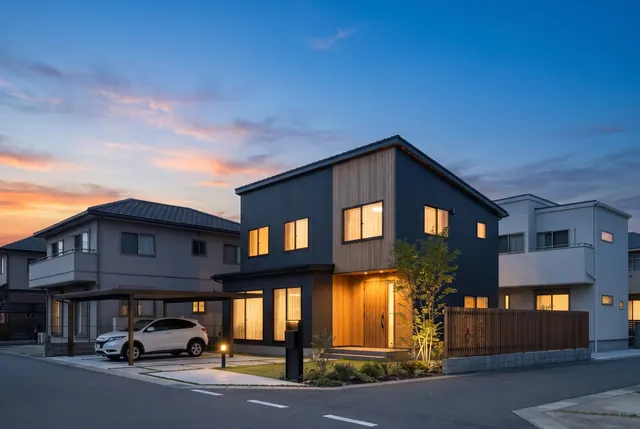
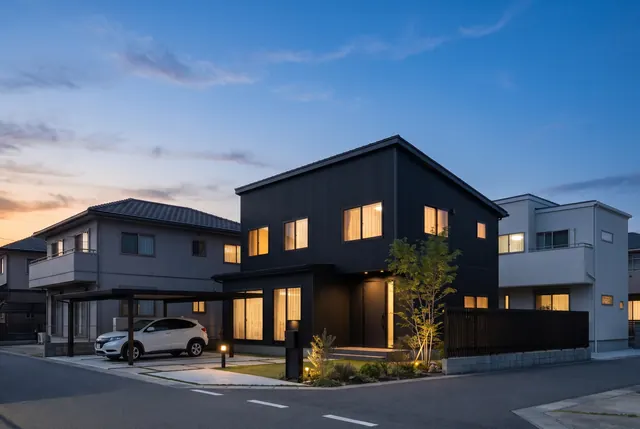
作例2の住宅を黒の仕上げ（v2）に差し替え
Claude-Session: https://claude.ai/code/session_01HQof481ygSGTKzHtgwCEzb

diff --git a/works/okayama-house/index.html b/works/okayama-house/index.html
@@ -4,13 +4,13 @@
 <meta charset="utf-8">
 <meta name="viewport" content="width=device-width, initial-scale=1, viewport-fit=cover">
 <title>岡山市北区の住宅地 木造2階建ての住まい（作例） ｜ ON DESIGN WORKS</title>
-<meta name="description" content="岡山市北区の住宅地に想定した岡山市北区の住宅地 木造2階建ての住まい（架空の計画）の外観パース・周辺建物つき3Dの見本。岡山市北区の住宅地の角地に計画した、木造2階建て・延床約35坪の注文住宅の作例です（架空の計画）。チャコールのガルバリウム鋼板と杉板を組み合わせた片流れ屋根の外観に、カーポートやア">
+<meta name="description" content="岡山市北区の住宅地に想定した岡山市北区の住宅地 木造2階建ての住まい（架空の計画）の外観パース・周辺建物つき3Dの見本。岡山市北区の住宅地の角地に計画した、木造2階建て・延床約35坪の注文住宅の作例です（架空の計画）。マットな黒のガルバリウム鋼板で外壁から玄関ドア、カーポートや目隠しまでをまとめた片">
 <link rel="canonical" href="https://on-design-works.com/works/okayama-house/">
 <meta property="og:type" content="article">
 <meta property="og:site_name" content="ON DESIGN WORKS">
 <meta property="og:locale" content="ja_JP">
 <meta property="og:title" content="岡山市北区の住宅地 木造2階建ての住まい（作例） ｜ ON DESIGN WORKS">
-<meta property="og:description" content="岡山市北区の住宅地に想定した岡山市北区の住宅地 木造2階建ての住まい（架空の計画）の外観パース・周辺建物つき3Dの見本。岡山市北区の住宅地の角地に計画した、木造2階建て・延床約35坪の注文住宅の作例です（架空の計画）。チャコールのガルバリウム鋼板と杉板を組み合わせた片流れ屋根の外観に、カーポートやア">
+<meta property="og:description" content="岡山市北区の住宅地に想定した岡山市北区の住宅地 木造2階建ての住まい（架空の計画）の外観パース・周辺建物つき3Dの見本。岡山市北区の住宅地の角地に計画した、木造2階建て・延床約35坪の注文住宅の作例です（架空の計画）。マットな黒のガルバリウム鋼板で外壁から玄関ドア、カーポートや目隠しまでをまとめた片">
 <meta property="og:url" content="https://on-design-works.com/works/okayama-house/">
 <meta property="og:image" content="https://on-design-works.com/assets/og.jpg">
 <meta property="og:image:width" content="1200">
@@ -25,7 +25,7 @@
 <link rel="preconnect" href="https://fonts.gstatic.com" crossorigin>
 <link rel="stylesheet" href="https://fonts.googleapis.com/css2?family=Noto+Serif+JP:wght@300;400;500&family=Noto+Sans+JP:wght@300;400;500&family=Italiana&display=swap">
 <link rel="stylesheet" href="/assets/style.css?v=2026-11-17c">
-<script type="application/ld+json">{"@context": "https://schema.org", "@graph": [{"@type": "ProfessionalService", "@id": "https://on-design-works.com/#org", "name": "ON DESIGN WORKS", "alternateName": "オンデザインワークス", "url": "https://on-design-works.com/", "email": "info@on-design-works.com", "image": "https://on-design-works.com/assets/og.jpg", "logo": "https://on-design-works.com/assets/icon-512.png", "description": "岡山の一級建築士による建築パース・周辺建物つき3Dモデルの制作と、建築会社のホームページ制作・運用。", "address": {"@type": "PostalAddress", "addressRegion": "岡山県", "addressLocality": "岡山市", "addressCountry": "JP"}, "areaServed": [{"@type": "City", "name": "岡山市"}, {"@type": "City", "name": "倉敷市"}, {"@type": "AdministrativeArea", "name": "岡山県"}], "knowsAbout": ["建築パース", "外観パース", "3Dモデル", "PLATEAU", "ホームページ制作"], "priceRange": "¥10,000〜", "contactPoint": {"@type": "ContactPoint", "contactType": "customer service", "email": "info@on-design-works.com", "availableLanguage": "ja"}}, {"@type": "WebSite", "@id": "https://on-design-works.com/#site", "url": "https://on-design-works.com/", "name": "ON DESIGN WORKS", "inLanguage": "ja", "publisher": {"@id": "https://on-design-works.com/#org"}}, {"@type": "WebPage", "@id": "https://on-design-works.com/works/okayama-house/#page", "url": "https://on-design-works.com/works/okayama-house/", "name": "岡山市北区の住宅地 木造2階建ての住まい（作例） ｜ ON DESIGN WORKS", "description": "岡山市北区の住宅地に想定した岡山市北区の住宅地 木造2階建ての住まい（架空の計画）の外観パース・周辺建物つき3Dの見本。岡山市北区の住宅地の角地に計画した、木造2階建て・延床約35坪の注文住宅の作例です（架空の計画）。チャコールのガルバリウム鋼板と杉板を組み合わせた片流れ屋根の外観に、カーポートやア", "isPartOf": {"@id": "https://on-design-works.com/#site"}, "inLanguage": "ja", "primaryImageOfPage": {"@type": "ImageObject", "url": "https://on-design-works.com/img/dusk.jpg"}}, {"@type": "BreadcrumbList", "itemListElement": [{"@type": "ListItem", "position": 1, "name": "ホーム", "item": "https://on-design-works.com/"}, {"@type": "ListItem", "position": 2, "name": "見本", "item": "https://on-design-works.com/works/"}, {"@type": "ListItem", "position": 3, "name": "岡山市北区の住宅地 木造2階建ての住まい", "item": "https://on-design-works.com/works/okayama-house/"}]}, {"@type": "CreativeWork", "name": "岡山市北区の住宅地 木造2階建ての住まい（架空の計画・作例）", "url": "https://on-design-works.com/works/okayama-house/", "creator": {"@id": "https://on-design-works.com/#org"}, "image": ["https://on-design-works.com/img/works/okayama-house/01.jpg", "https://on-design-works.com/img/works/okayama-house/02.jpg", "https://on-design-works.com/img/works/okayama-house/03.jpg"], "description": "岡山市北区の住宅地の角地に計画した、木造2階建て・延床約35坪の注文住宅の作例です（架空の計画）。チャコールのガルバリウム鋼板と杉板を組み合わせた片流れ屋根の外観に、カーポートやアプローチ、植栽まで含めた外構を作り込み、通りから人の目線で見た竣工写真のようなパースに仕上げました。周りの家並みは国土交通省の3D都市モデル PLATEAU の実測の高さで再現しておりますので、計画が街の中でどのように見えるかを、3Dでもご確認いただけます。", "locationCreated": {"@type": "Place", "name": "岡山市北区の住宅地"}}]}</script>
+<script type="application/ld+json">{"@context": "https://schema.org", "@graph": [{"@type": "ProfessionalService", "@id": "https://on-design-works.com/#org", "name": "ON DESIGN WORKS", "alternateName": "オンデザインワークス", "url": "https://on-design-works.com/", "email": "info@on-design-works.com", "image": "https://on-design-works.com/assets/og.jpg", "logo": "https://on-design-works.com/assets/icon-512.png", "description": "岡山の一級建築士による建築パース・周辺建物つき3Dモデルの制作と、建築会社のホームページ制作・運用。", "address": {"@type": "PostalAddress", "addressRegion": "岡山県", "addressLocality": "岡山市", "addressCountry": "JP"}, "areaServed": [{"@type": "City", "name": "岡山市"}, {"@type": "City", "name": "倉敷市"}, {"@type": "AdministrativeArea", "name": "岡山県"}], "knowsAbout": ["建築パース", "外観パース", "3Dモデル", "PLATEAU", "ホームページ制作"], "priceRange": "¥10,000〜", "contactPoint": {"@type": "ContactPoint", "contactType": "customer service", "email": "info@on-design-works.com", "availableLanguage": "ja"}}, {"@type": "WebSite", "@id": "https://on-design-works.com/#site", "url": "https://on-design-works.com/", "name": "ON DESIGN WORKS", "inLanguage": "ja", "publisher": {"@id": "https://on-design-works.com/#org"}}, {"@type": "WebPage", "@id": "https://on-design-works.com/works/okayama-house/#page", "url": "https://on-design-works.com/works/okayama-house/", "name": "岡山市北区の住宅地 木造2階建ての住まい（作例） ｜ ON DESIGN WORKS", "description": "岡山市北区の住宅地に想定した岡山市北区の住宅地 木造2階建ての住まい（架空の計画）の外観パース・周辺建物つき3Dの見本。岡山市北区の住宅地の角地に計画した、木造2階建て・延床約35坪の注文住宅の作例です（架空の計画）。マットな黒のガルバリウム鋼板で外壁から玄関ドア、カーポートや目隠しまでをまとめた片", "isPartOf": {"@id": "https://on-design-works.com/#site"}, "inLanguage": "ja", "primaryImageOfPage": {"@type": "ImageObject", "url": "https://on-design-works.com/img/dusk.jpg"}}, {"@type": "BreadcrumbList", "itemListElement": [{"@type": "ListItem", "position": 1, "name": "ホーム", "item": "https://on-design-works.com/"}, {"@type": "ListItem", "position": 2, "name": "見本", "item": "https://on-design-works.com/works/"}, {"@type": "ListItem", "position": 3, "name": "岡山市北区の住宅地 木造2階建ての住まい", "item": "https://on-design-works.com/works/okayama-house/"}]}, {"@type": "CreativeWork", "name": "岡山市北区の住宅地 木造2階建ての住まい（架空の計画・作例）", "url": "https://on-design-works.com/works/okayama-house/", "creator": {"@id": "https://on-design-works.com/#org"}, "image": ["https://on-design-works.com/img/works/okayama-house/01.jpg", "https://on-design-works.com/img/works/okayama-house/02.jpg", "https://on-design-works.com/img/works/okayama-house/03.jpg"], "description": "岡山市北区の住宅地の角地に計画した、木造2階建て・延床約35坪の注文住宅の作例です（架空の計画）。マットな黒のガルバリウム鋼板で外壁から玄関ドア、カーポートや目隠しまでをまとめた片流れ屋根の外観に、アプローチや植栽まで含めた外構を作り込み、通りから人の目線で見た竣工写真のようなパースに仕上げました。周りの家並みは国土交通省の3D都市モデル PLATEAU の実測の高さで再現しておりますので、計画が街の中でどのように見えるかを、3Dでもご確認いただけます。", "locationCreated": {"@type": "Place", "name": "岡山市北区の住宅地"}}]}</script>
 </head>
 <body class="sub">
 <a class="skip" href="#main">本文へ移動</a>
@@ -48,9 +48,9 @@
 <div class="rv"><p class="k">Work 02 ／ 注文住宅（専用住宅 4LDK）</p>
 <h2 style="font-size:clamp(22px,2.6vw,34px);margin-top:16px">岡山市北区の住宅地 木造2階建ての住まい</h2>
 <p class="small" style="margin-top:8px">岡山市北区の住宅地</p>
-<p class="mute" style="margin-top:16px">岡山市北区の住宅地の角地に計画した、木造2階建て・延床約35坪の注文住宅の作例です（架空の計画）。チャコールのガルバリウム鋼板と杉板を組み合わせた片流れ屋根の外観に、カーポートやアプローチ、植栽まで含めた外構を作り込み、通りから人の目線で見た竣工写真のようなパースに仕上げました。周りの家並みは国土交通省の3D都市モデル PLATEAU の実測の高さで再現しておりますので、計画が街の中でどのように見えるかを、3Dでもご確認いただけます。</p>
+<p class="mute" style="margin-top:16px">岡山市北区の住宅地の角地に計画した、木造2階建て・延床約35坪の注文住宅の作例です（架空の計画）。マットな黒のガルバリウム鋼板で外壁から玄関ドア、カーポートや目隠しまでをまとめた片流れ屋根の外観に、アプローチや植栽まで含めた外構を作り込み、通りから人の目線で見た竣工写真のようなパースに仕上げました。周りの家並みは国土交通省の3D都市モデル PLATEAU の実測の高さで再現しておりますので、計画が街の中でどのように見えるかを、3Dでもご確認いただけます。</p>
 <div class="specs"><div><b>木造 地上2階</b><span>構造・規模</span></div><div><b>7.3 m</b><span>最高高さ</span></div><div><b>約116 ㎡（約35坪）</b><span>延べ面積</span></div></div><div class="actions"><a class="btn fill" href="/3d/okayama-house.html" target="_blank" rel="noopener">3Dモデルを開く ↗</a></div></div>
-</div></div></section><section class="s alt"><div class="wrap"><div class="ttl rv"><p class="en" aria-hidden="true">Gallery</p><div class="r"><h2>制作物</h2></div></div><div class="body rv"><div class="gal"><figure><a href="/img/works/okayama-house/01.jpg" target="_blank" rel="noopener"><picture><source type="image/webp" srcset="/img/works/okayama-house/01-640.webp 640w, /img/works/okayama-house/01.webp 1600w" sizes="(max-width: 640px) 100vw, 400px"><img src="/img/works/okayama-house/01-640.jpg" srcset="/img/works/okayama-house/01-640.jpg 640w, /img/works/okayama-house/01.jpg 1600w" sizes="(max-width: 640px) 100vw, 400px" alt="岡山市北区の住宅地 木造2階建ての住まい（架空の計画）・外観パース（昼）：南東の角から人の目線で" width="1600" height="1073" loading="lazy" decoding="async"></picture></a><figcaption><span>DAY</span><span>昼景</span></figcaption></figure><figure><a href="/img/works/okayama-house/02.jpg" target="_blank" rel="noopener"><picture><source type="image/webp" srcset="/img/works/okayama-house/02-640.webp 640w, /img/works/okayama-house/02.webp 1600w" sizes="(max-width: 640px) 100vw, 400px"><img src="/img/works/okayama-house/02-640.jpg" srcset="/img/works/okayama-house/02-640.jpg 640w, /img/works/okayama-house/02.jpg 1600w" sizes="(max-width: 640px) 100vw, 400px" alt="岡山市北区の住宅地 木造2階建ての住まい（架空の計画）・外観パース（夕景）：室内と玄関ポーチの灯り" width="1600" height="1073" loading="lazy" decoding="async"></picture></a><figcaption><span>DUSK</span><span>夕景</span></figcaption></figure><figure><a href="/img/works/okayama-house/03.jpg" target="_blank" rel="noopener"><picture><source type="image/webp" srcset="/img/works/okayama-house/03-640.webp 640w, /img/works/okayama-house/03.webp 1600w" sizes="(max-width: 640px) 100vw, 400px"><img src="/img/works/okayama-house/03-640.jpg" srcset="/img/works/okayama-house/03-640.jpg 640w, /img/works/okayama-house/03.jpg 1600w" sizes="(max-width: 640px) 100vw, 400px" alt="岡山市北区の住宅地 木造2階建ての住まい（架空の計画）・周りの家並みを白いボリュームで示した版（PLATEAU の実測の高さ）" width="1600" height="1073" loading="lazy" decoding="async"></picture></a><figcaption><span>CONTEXT</span><span>周辺を白く</span></figcaption></figure></div><dl class="dl"><dt>場所</dt><dd>岡山市北区の住宅地</dd><dt>用途</dt><dd>注文住宅（専用住宅 4LDK）</dd><dt>構造・規模</dt><dd>木造 地上2階</dd><dt>高さ</dt><dd>7.3 m</dd><dt>規模</dt><dd>延べ面積 約116 ㎡（約35坪）</dd><dt>制作物</dt><dd>周辺つき3Dモデル（Web）、外観パース 3枚</dd></dl><p class="small">見本のために想定した架空の計画です。実在の建物・会社・計画とは関係ございません。</p></div></div></section><section class="s "><div class="wrap"><div class="ttl rv"><p class="en" aria-hidden="true">More</p><div class="r"><h2>ほかの見本</h2></div></div><div class="body rv"><div class="wgrid"><a class="wcard" href="/works/okayama-station-east/"><div class="wimg"><picture><source type="image/webp" srcset="/img/works/okayama-station-east/01-640.webp"><img src="/img/works/okayama-station-east/01-640.jpg" alt="岡山駅東口 角地の賃貸マンション（架空の計画）" width="640" height="795" loading="lazy" decoding="async"></picture></div><div class="wtx"><span class="k">Work 01 ／ 共同住宅＋店舗</span><h3>岡山駅東口 角地の賃貸マンション</h3><p>岡山市北区・岡山駅東口から徒歩約5分の角地</p></div></a><a class="wcard" href="/works/kurashiki-bikan-inn/"><div class="wimg"><picture><source type="image/webp" srcset="/img/works/kurashiki-bikan-inn/01-640.webp"><img src="/img/works/kurashiki-bikan-inn/01-640.jpg" alt="倉敷・美観地区の近く 和モダンの小さな宿＋カフェ（架空の計画）" width="640" height="478" loading="lazy" decoding="async"></picture></div><div class="wtx"><span class="k">Work 03 ／ ホテル（客室10室）＋1階カフェ</span><h3>倉敷・美観地区の近く 和モダンの小さな宿＋カフェ</h3><p>倉敷市・美観地区の近く</p></div></a><a class="wcard" href="/works/okayama-clinic-mall/"><div class="wimg"><picture><source type="image/webp" srcset="/img/works/okayama-clinic-mall/01-640.webp"><img src="/img/works/okayama-clinic-mall/01-640.jpg" alt="郊外ロードサイドのクリニックモール（架空の計画）" width="640" height="429" loading="lazy" decoding="async"></picture></div><div class="wtx"><span class="k">Work 04 ／ クリニックモール（診療所5区画＋調剤薬局1区画）</span><h3>郊外ロードサイドのクリニックモール</h3><p>岡山市南区の幹線道路沿い</p></div></a></div></div></div></section><section class="s contact"><div class="wrap rv">
+</div></div></section><section class="s alt"><div class="wrap"><div class="ttl rv"><p class="en" aria-hidden="true">Gallery</p><div class="r"><h2>制作物</h2></div></div><div class="body rv"><div class="gal"><figure><a href="/img/works/okayama-house/01.jpg" target="_blank" rel="noopener"><picture><source type="image/webp" srcset="/img/works/okayama-house/01-640.webp 640w, /img/works/okayama-house/01.webp 1600w" sizes="(max-width: 640px) 100vw, 400px"><img src="/img/works/okayama-house/01-640.jpg" srcset="/img/works/okayama-house/01-640.jpg 640w, /img/works/okayama-house/01.jpg 1600w" sizes="(max-width: 640px) 100vw, 400px" alt="岡山市北区の住宅地 木造2階建ての住まい（架空の計画）・外観パース（昼）：南東の角から人の目線で" width="1600" height="1073" loading="lazy" decoding="async"></picture></a><figcaption><span>DAY</span><span>昼景</span></figcaption></figure><figure><a href="/img/works/okayama-house/02.jpg" target="_blank" rel="noopener"><picture><source type="image/webp" srcset="/img/works/okayama-house/02-640.webp 640w, /img/works/okayama-house/02.webp 1600w" sizes="(max-width: 640px) 100vw, 400px"><img src="/img/works/okayama-house/02-640.jpg" srcset="/img/works/okayama-house/02-640.jpg 640w, /img/works/okayama-house/02.jpg 1600w" sizes="(max-width: 640px) 100vw, 400px" alt="岡山市北区の住宅地 木造2階建ての住まい（架空の計画）・外観パース（夕景）：黒い外壁に映える室内と玄関ポーチの灯り" width="1600" height="1073" loading="lazy" decoding="async"></picture></a><figcaption><span>DUSK</span><span>夕景</span></figcaption></figure><figure><a href="/img/works/okayama-house/03.jpg" target="_blank" rel="noopener"><picture><source type="image/webp" srcset="/img/works/okayama-house/03-640.webp 640w, /img/works/okayama-house/03.webp 1600w" sizes="(max-width: 640px) 100vw, 400px"><img src="/img/works/okayama-house/03-640.jpg" srcset="/img/works/okayama-house/03-640.jpg 640w, /img/works/okayama-house/03.jpg 1600w" sizes="(max-width: 640px) 100vw, 400px" alt="岡山市北区の住宅地 木造2階建ての住まい（架空の計画）・周りの家並みを白いボリュームで示した版（PLATEAU の実測の高さ）" width="1600" height="1073" loading="lazy" decoding="async"></picture></a><figcaption><span>CONTEXT</span><span>周辺を白く</span></figcaption></figure></div><dl class="dl"><dt>場所</dt><dd>岡山市北区の住宅地</dd><dt>用途</dt><dd>注文住宅（専用住宅 4LDK）</dd><dt>構造・規模</dt><dd>木造 地上2階</dd><dt>高さ</dt><dd>7.3 m</dd><dt>規模</dt><dd>延べ面積 約116 ㎡（約35坪）</dd><dt>制作物</dt><dd>周辺つき3Dモデル（Web）、外観パース 3枚</dd></dl><p class="small">見本のために想定した架空の計画です。実在の建物・会社・計画とは関係ございません。</p></div></div></section><section class="s "><div class="wrap"><div class="ttl rv"><p class="en" aria-hidden="true">More</p><div class="r"><h2>ほかの見本</h2></div></div><div class="body rv"><div class="wgrid"><a class="wcard" href="/works/okayama-station-east/"><div class="wimg"><picture><source type="image/webp" srcset="/img/works/okayama-station-east/01-640.webp"><img src="/img/works/okayama-station-east/01-640.jpg" alt="岡山駅東口 角地の賃貸マンション（架空の計画）" width="640" height="795" loading="lazy" decoding="async"></picture></div><div class="wtx"><span class="k">Work 01 ／ 共同住宅＋店舗</span><h3>岡山駅東口 角地の賃貸マンション</h3><p>岡山市北区・岡山駅東口から徒歩約5分の角地</p></div></a><a class="wcard" href="/works/kurashiki-bikan-inn/"><div class="wimg"><picture><source type="image/webp" srcset="/img/works/kurashiki-bikan-inn/01-640.webp"><img src="/img/works/kurashiki-bikan-inn/01-640.jpg" alt="倉敷・美観地区の近く 和モダンの小さな宿＋カフェ（架空の計画）" width="640" height="478" loading="lazy" decoding="async"></picture></div><div class="wtx"><span class="k">Work 03 ／ ホテル（客室10室）＋1階カフェ</span><h3>倉敷・美観地区の近く 和モダンの小さな宿＋カフェ</h3><p>倉敷市・美観地区の近く</p></div></a><a class="wcard" href="/works/okayama-clinic-mall/"><div class="wimg"><picture><source type="image/webp" srcset="/img/works/okayama-clinic-mall/01-640.webp"><img src="/img/works/okayama-clinic-mall/01-640.jpg" alt="郊外ロードサイドのクリニックモール（架空の計画）" width="640" height="429" loading="lazy" decoding="async"></picture></div><div class="wtx"><span class="k">Work 04 ／ クリニックモール（診療所5区画＋調剤薬局1区画）</span><h3>郊外ロードサイドのクリニックモール</h3><p>岡山市南区の幹線道路沿い</p></div></a></div></div></div></section><section class="s contact"><div class="wrap rv">
 <p class="k">Contact</p>
 <h2>まずは図面一枚から、<br>ご相談ください。</h2>
 <a class="mail" href="mailto:info@on-design-works.com">info@on-design-works.com</a>

diff --git a/3d/okayama-house.html b/3d/okayama-house.html
@@ -232,7 +232,7 @@ const BRAND=['作例（架空の計画）／周辺の建物＝PLATEAU 岡山市 
 const TITLE=[['名称','岡山市北区の住宅地 木造2階建ての住まい（架空の計画・作例）',true],['場所','岡山市北区の住宅地（南と東が道路の角地）',true],
   ['敷地面積','約 199 ㎡（約 60 坪）'],['建築面積','約 66 ㎡（カーポート除く）'],['延べ面積','約 116 ㎡（約 35 坪）'],
   ['構造・規模','木造 2F'],['用途','専用住宅 4LDK'],['最高高さ','約 7.3 m（片流れ屋根）'],['階高','1F 2.9 m（1FL＝GL+0.5）'],
-  ['外装','ガルバリウム鋼板（チャコール）＋杉板張り'],['外構','2台用カーポート・アプローチ・植栽・木の目隠し']];
+  ['外装','黒のガルバリウム鋼板（縦はぜ・マット）で統一'],['外構','2台用カーポート（黒）・アプローチ・植栽・黒のアルミ縦格子']];
 const CAMS=[
   ['.1','南東の角から（人の目線）',[23000,-5800,1500],[6500,9000,3500],50],
   ['.2','南の道路から（正面）',[5500,-5800,1500],[6000,9000,3500],62],
@@ -241,20 +241,20 @@ const CAMS=[
   ['.5','真上（配置）',[7000,7000,90000],[7000,7100,0],35]
 ];
 const LAYERS=[
-  {id:'wall',label:'外壁（ガルバリウム鋼板・チャコール）',sw:'#3d4044'},
-  {id:'wood',label:'外壁（杉板の縦張り）・軒天',sw:'#b5835a'},
+  {id:'wall',label:'外壁（黒のガルバリウム鋼板・縦はぜ）',sw:'#232426'},
+  {id:'wood',label:'玄関側の縦の一列・軒天（黒のガルバリウム鋼板）',sw:'#1c1d1f'},
   {id:'glass',label:'窓・玄関ドア',sw:'#5d7684'},
   {id:'roof',label:'屋根（片流れ）・下屋',sw:'#2e3033'},
   {id:'base',label:'基礎・玄関ポーチ',sw:'#a3a19b'},
-  {id:'ext',label:'外構（カーポート・アプローチ・目隠し）',sw:'#cfc6b5'},
+  {id:'ext',label:'外構（黒のカーポート・アプローチ・黒のアルミ縦格子）',sw:'#cfc6b5'},
   {id:'car',label:'車（大きさの目安）',sw:'#e8e8e6'},
   {id:'site',label:'敷地・道路',sw:'#b9ad98'},
   {id:'plant',label:'植栽',sw:'#6b8f52'}
 ];
-const MAT={galva:{c:0x3d4044},galva2:{c:0x34373a},roof:{c:0x2b2d30},fascia:{c:0x26282a},wood:{c:0xb5835a},soffit:{c:0xc39a6c},
-  glass:{c:0x5d7684,o:0.86},sash:{c:0x1f2022},door:{c:0x7e5434},base:{c:0xa3a19b},tile:{c:0x8f8d88},
-  conc:{c:0xc4c1ba},pave:{c:0xd2c8b6},soil:{c:0xb9ad98},lawn:{c:0x7fa05a},block:{c:0xb0aca4},fence:{c:0x9a6b45},
-  cproof:{c:0x5a5d61},steel:{c:0x4d4946},post:{c:0x3a3c3f},light:{c:0xfff1d6,e:0x6a5a3a},
+const MAT={galva:{c:0x2a2b2d},galva2:{c:0x242527},roof:{c:0x1f2022},fascia:{c:0x1a1b1c},wood:{c:0x25262a},soffit:{c:0x1e1f21},
+  glass:{c:0x5d7684,o:0.86},sash:{c:0x1f2022},door:{c:0x232427},base:{c:0xa3a19b},tile:{c:0x8f8d88},
+  conc:{c:0xc4c1ba},pave:{c:0xd2c8b6},soil:{c:0xb9ad98},lawn:{c:0x7fa05a},block:{c:0xb0aca4},fence:{c:0x1d1e20},
+  cproof:{c:0x3a3c3f},steel:{c:0x1f2022},post:{c:0x26272a},light:{c:0xfff1d6,e:0x6a5a3a},
   car:{c:0xe6e6e3},carglass:{c:0x2f353b},tire:{c:0x222222},
   asph:{c:0x64676b},line:{c:0xf2f2f0},gutter:{c:0xb3b0aa},green:{c:0x7c9e5c}};
 const FOCUS=new THREE.Vector3(7,3,-8);
@@ -262,7 +262,7 @@ const SHADOW_R=90;
 const CTX_SOURCE_SHORT='PLATEAU';
 const CTX_NOTE='国土交通省 3D都市モデル <b>PLATEAU 岡山市 2025年度版</b>（3次メッシュ 52330712・52330713）の建物外形と<b>実測高さ</b>（半径260m・572棟）。カーソルを当てると高さ・階数・用途が出ます。敷地の上の既存の住宅は、架空の計画のため3Dから外しています。道路の縁は国土地理院の基盤地図。';
 const BADGE='周りの家並み <b>6〜9m（2階建て中心）</b>（PLATEAU 実測）／計画 約7.3m';
-const FINISH='<ul class="hint"><li>架空の計画（作例）です。実在の計画・建物とは関係ありません</li><li>外壁：チャコールのガルバリウム鋼板（縦張りの角波）。玄関側の縦の一列（2階の壁・玄関ポーチ・軒天）は杉板の縦張り</li><li>屋根：南が高い片流れ（2.5寸勾配）のガルバリウム鋼板、1階のLDKの張り出しは平らな下屋</li><li>1階：LDK 約18畳＋和室（南の大きな窓）、玄関は2階の下に入り込んだポーチ</li><li>2階：主寝室・子ども室2・WIC</li><li>外構：2台用のカーポート（アルミ・フラット屋根）、アプローチ、南東の角にシンボルツリー、東の道路側は木の目隠し</li></ul>';
+const FINISH='<ul class="hint"><li>架空の計画（作例）です。実在の計画・建物とは関係ありません</li><li>外壁：マットな黒のガルバリウム鋼板（縦はぜ）で統一。サッシ・破風・水切り・玄関ドアも黒（v2 で木目をなくした）</li><li>屋根：南が高い片流れ（2.5寸勾配）の黒のガルバリウム鋼板、1階のLDKの張り出しは平らな下屋</li><li>1階：LDK 約18畳＋和室（南の大きな窓）、玄関は2階の下に入り込んだポーチ（黒の軒天にダウンライト）</li><li>2階：主寝室・子ども室2・WIC</li><li>外構：黒のアルミ・フラット屋根の2台用カーポート、アプローチ、南東の角にシンボルツリー、東の道路側は黒のアルミ縦格子の目隠し</li></ul>';
 const ESTIMATE='<ul class="hint"><li>敷地の形は国土地理院の道路の縁から読んだ角の区画（約13.8×14.6m、南東の角は隅切り）。実際の敷地の境界とは関係ありません</li><li>建物の大きさ・階高・間取りは作例として決めたもの（法規の検討はしていない）</li><li>周辺の建物は PLATEAU の測量時点のもの（その後の建て替えは入っていない）</li></ul>';
 
 function buildModel(){
@@ -285,7 +285,7 @@ function buildModel(){
     box('glass','sash',X-40,y0-40,z0-40,X+15,y1+40,z0); box('glass','sash',X-40,y0-40,z1,X+15,y1+40,z1+40);
     box('glass','sash',X-40,y0-40,z0,X+15,y0,z1); box('glass','sash',X-40,y1,z0,X+15,y1+40,z1);
     for(let k=1;k<(nDiv||1);k++){ const y=y0+(y1-y0)*k/nDiv; box('glass','sash',X-45,y-25,z0,X-10,y+25,z1); } };
-  // 杉板の縦張り（面に 20mm の板＋目地の影）：南向き
+  // v2：玄関側の縦の一列も黒のガルバ（縦はぜの線を 105 間隔で）：南向き
   const cedarS=(Y0,x0,x1,z0,z1)=>{ box('wood','wood',x0,Y0-25,z0,x1,Y0,z1); for(let x=x0+105;x<x1-20;x+=105) box('wood','fence',x-6,Y0-28,z0,x+6,Y0-24,z1); };
 
   /* ---- 敷地・道路 ---- */
@@ -303,7 +303,7 @@ function buildModel(){
   for(let y=700;y<YS-400;y+=1300) box('ext','tile',6750,y,100,8050,y+40,104);
   prism('ext','lawn',[[8150,300],[11700,300],[13450,2000],[13450,YS-200],[8150,YS-200]],40,70);     // 南東の庭（芝）
   box('ext','soil',X0-500,YP-500,40,XE+300,YP,60);                          // 張り出しの前の植え込み
-  // 東の道路側：ブロックの腰＋木の縦格子の目隠し（北側だけ）
+  // 東の道路側：ブロックの腰＋黒のアルミ縦格子の目隠し（北側だけ）
   box('ext','block',13550,6200,0,13750,14600,450);
   for(let y=6250;y<14550;y+=135) box('ext','fence',13600,y,450,13700,y+90,1800);
   box('ext','steel',13580,6200,1800,13720,14600,1840);
@@ -338,7 +338,7 @@ function buildModel(){
   // 下屋（LDK の張り出しの屋根・ほぼ平ら）
   box('roof','roof',X0-150,YP-450,FL2-100,XE+150,YS,FL2+60); box('roof','fascia',X0-150,YP-470,FL2-160,XE+150,YP-450,FL2+80);
   box('roof','fascia',X0-170,YP-470,FL2-160,X0-150,YS,FL2+80); box('roof','fascia',XE+150,YP-470,FL2-160,XE+170,YS,FL2+80);
-  // 杉板：玄関の列（2階の南面・ポーチの奥の壁・ポーチの西の壁）と軒天
+  // 玄関の列（2階の南面・ポーチの奥の壁・ポーチの西の壁）と軒天：v2 は黒のガルバ（v1 は杉板）
   cedarS(YS,XE,X1,FL2-200,zAt(YS));
   cedarS(YD,XE,X1,FL1,FL2-200);
   box('wood','wood',XE-25,YS,FL1,XE,YD,FL2-200);   // ポーチの西の壁（LDK の東面）
@@ -351,7 +351,7 @@ function buildModel(){
   box('glass','door',8150,YD-60,FL1,9150,YD,2850); box('glass','sash',8130,YD-70,FL1,8170,YD,2870); box('glass','sash',9130,YD-70,FL1,9170,YD,2870); box('glass','sash',8130,YD-70,2850,9170,YD,2890);
   box('glass','post',9030,YD-90,1500,9060,YD-60,1700);   // 取っ手
   box('glass','glass',9350,YD-50,FL1+20,9650,YD-20,2850); box('glass','sash',9310,YD-70,FL1,9690,YD-20,FL1+20); box('glass','sash',9310,YD-70,2850,9690,YD-20,2890);
-  // 2階の南の窓：子ども室2（ガルバの面）・主寝室（杉板の面）
+  // 2階の南の窓：子ども室2（ガルバの面）・主寝室（玄関の列の面）
   winS(YS,1650,3250,4250,5450,2); winS(YS,4350,5950,4250,5450,2); winS(YS-25,7950,9950,4250,5450,2);
   // 東面の窓：2階＝主寝室の窓・WIC の小窓、1階＝ホールの縦長 FIX・洗面の窓
   winE(X1,9000,10600,4250,5450,2); winE(X1,12100,12700,4600,5200,1);
